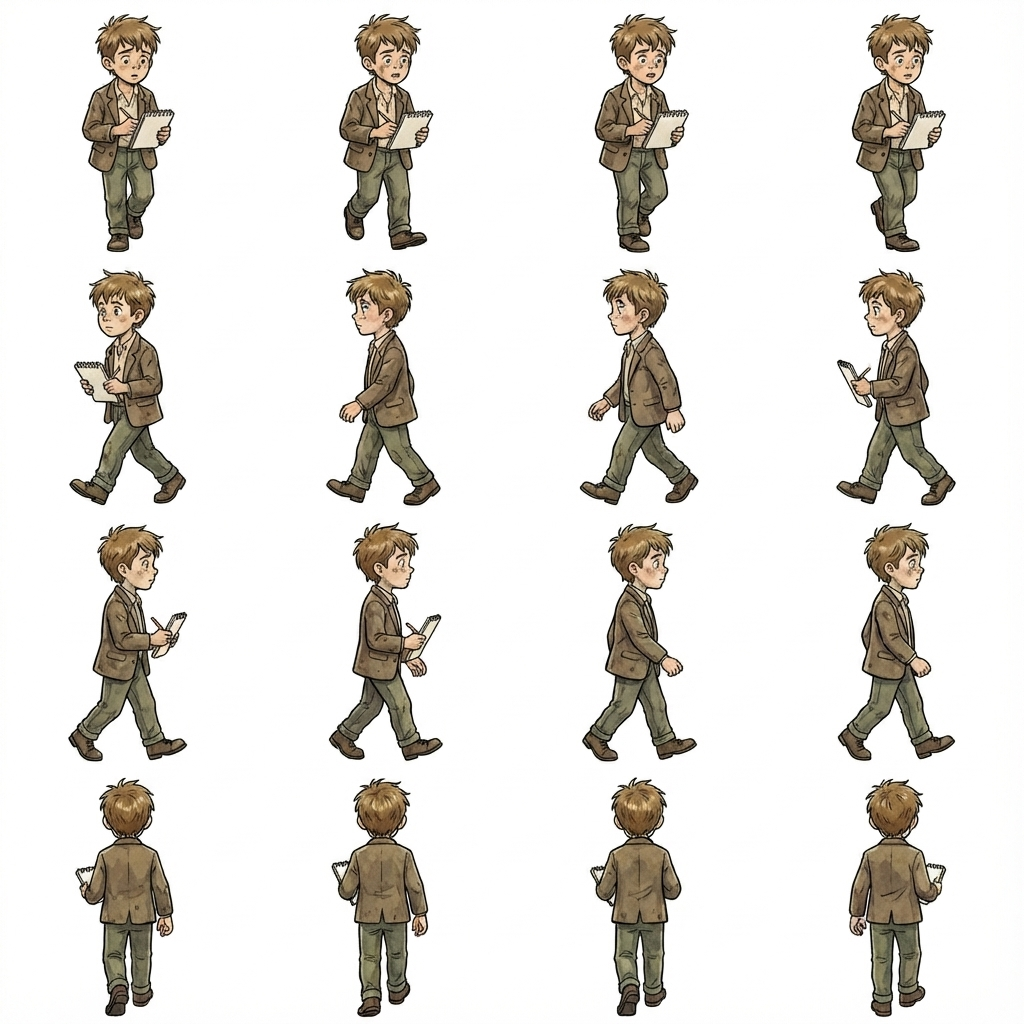
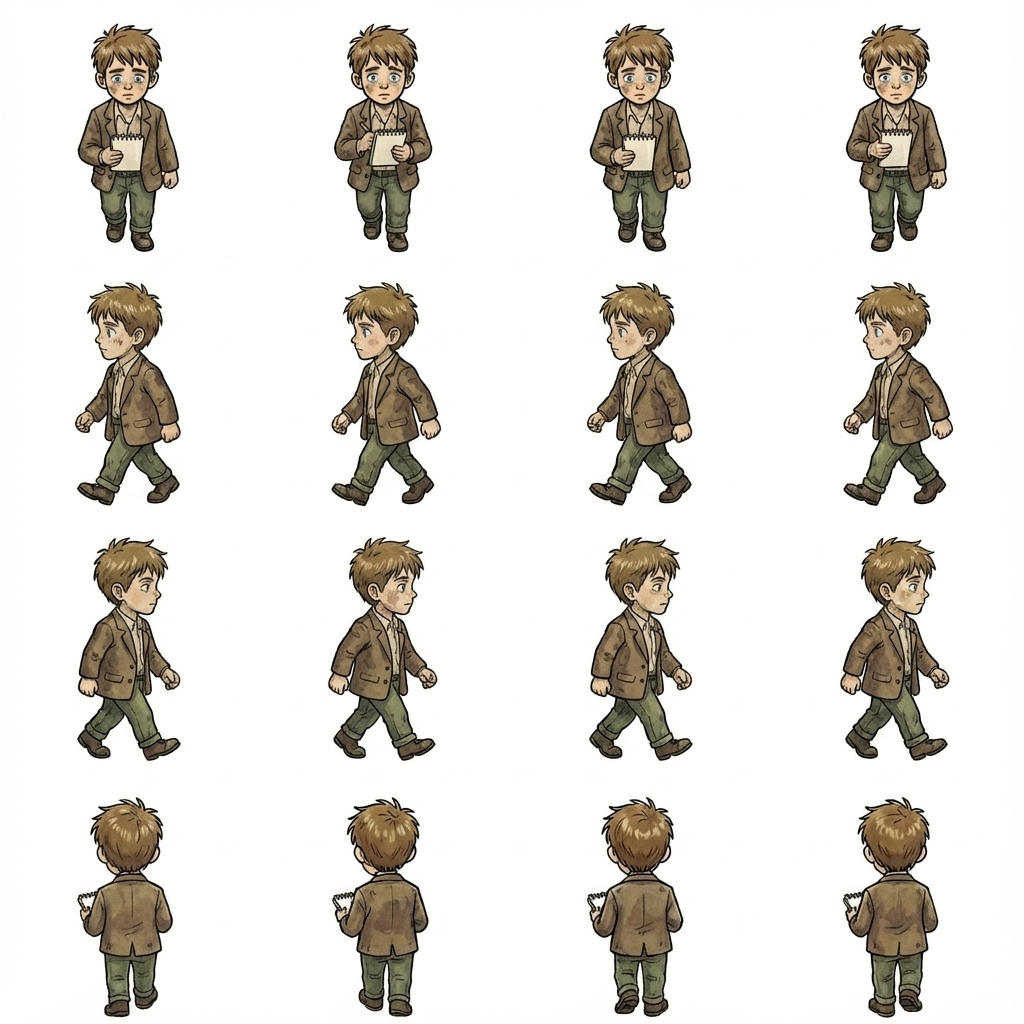
feat: update character spritesheets and enhance generation logic for consistency

diff --git a/tools/asset-designer/src/routes/actors/[actorId]/generate.remote.ts b/tools/asset-designer/src/routes/actors/[actorId]/generate.remote.ts
@@ -11,7 +11,12 @@ import {
 	hasActorSpeech,
 	hasActorFrame
 } from '$lib/server/filesystem';
-import { generateImage, buildConceptPrompt, buildPortraitPrompt, buildSpritesheetPrompt } from '$lib/server/gemini';
+import {
+	generateImage,
+	buildConceptPrompt,
+	buildPortraitPrompt,
+	buildSpritesheetPrompt
+} from '$lib/server/gemini';
 import fs from 'fs/promises';
 import path from 'path';
 
@@ -47,88 +52,112 @@ export const generateConcept = command(z.string(), async (actorId) => {
 /**
  * Generate portrait for an actor (3:4 aspect ratio)
  */
-export const generatePortrait = command(z.tuple([z.string(), z.string()]), async ([actorId, expressionType]) => {
-	const actor = await getActor(actorId);
-	if (!actor) {
-		throw new Error('Actor not found');
+export const generatePortrait = command(
+	z.tuple([z.string(), z.string()]),
+	async ([actorId, expressionType]) => {
+		const actor = await getActor(actorId);
+		if (!actor) {
+			throw new Error('Actor not found');
+		}
+
+		const systemPrompt = await getSystemPrompt();
+		const extraInstructions =
+			expressionType === 'talking' ? await getPrompt('talking-portrait.prompt.md') : undefined;
+		const prompt = buildPortraitPrompt(systemPrompt, actor.content, extraInstructions ?? undefined);
+
+		const referenceImages: Buffer[] = [];
+		const conceptArtImages = await getConceptArtImages();
+		referenceImages.push(...conceptArtImages);
+		console.log(`Generating ${expressionType} portrait for actor: ${actorId}`);
+
+		// Add actor's concept if it exists
+		try {
+			const ASSETS_DIR = path.resolve(process.cwd(), '../../assets');
+			const conceptPath = path.join(ASSETS_DIR, 'actors', actorId, 'concept.png');
+			const conceptImage = await fs.readFile(conceptPath);
+			referenceImages.push(conceptImage);
+		} catch {
+			// Continue without actor concept
+		}
+
+		const result = await generateImage({
+			prompt,
+			referenceImages: referenceImages.length > 0 ? referenceImages : undefined,
+			aspectRatio: '3:4'
+		});
+
+		if (!result) {
+			throw new Error('Failed to generate portrait');
+		}
+
+		await saveActorSpeech(actorId, expressionType, result.data);
+		console.log(`Done generating ${expressionType} portrait for actor: ${actorId}`);
+		return { success: true };
 	}
-
-	const systemPrompt = await getSystemPrompt();
-	const extraInstructions = expressionType === 'talking' ? await getPrompt('talking-portrait.prompt.md') : undefined;
-	const prompt = buildPortraitPrompt(systemPrompt, actor.content, extraInstructions ?? undefined);
-
-	const referenceImages: Buffer[] = [];
-	const conceptArtImages = await getConceptArtImages();
-	referenceImages.push(...conceptArtImages);
-	console.log(`Generating ${expressionType} portrait for actor: ${actorId}`);
-
-	// Add actor's concept if it exists
-	try {
-		const ASSETS_DIR = path.resolve(process.cwd(), '../../assets');
-		const conceptPath = path.join(ASSETS_DIR, 'actors', actorId, 'concept.png');
-		const conceptImage = await fs.readFile(conceptPath);
-		referenceImages.push(conceptImage);
-	} catch {
-		// Continue without actor concept
-	}
-
-	const result = await generateImage({
-		prompt,
-		referenceImages: referenceImages.length > 0 ? referenceImages : undefined,
-		aspectRatio: '3:4'
-	});
-
-	if (!result) {
-		throw new Error('Failed to generate portrait');
-	}
-
-	await saveActorSpeech(actorId, expressionType, result.data);
-	console.log(`Done generating ${expressionType} portrait for actor: ${actorId}`);
-	return { success: true };
-});
+);
 
 /**
  * Generate spritesheet for an actor (1:1 aspect ratio)
  */
-export const generateSpritesheet = command(z.tuple([z.string(), z.string()]), async ([actorId, animationType]) => {
-	const actor = await getActor(actorId);
-	if (!actor) {
-		throw new Error('Actor not found');
+export const generateSpritesheet = command(
+	z.tuple([z.string(), z.string()]),
+	async ([actorId, animationType]) => {
+		const actor = await getActor(actorId);
+		if (!actor) {
+			throw new Error('Actor not found');
+		}
+
+		const systemPrompt = await getSystemPrompt();
+		const extraInstructions = await getPrompt(`${animationType}-spritesheet.prompt.md`);
+		const prompt = buildSpritesheetPrompt(
+			systemPrompt,
+			actor.content,
+			extraInstructions ?? undefined
+		);
+
+		const referenceImages: Buffer[] = [];
+		const conceptArtImages = await getConceptArtImages();
+		referenceImages.push(...conceptArtImages);
+		console.log(`Generating ${animationType} spritesheet for actor: ${actorId}`);
+
+		// Add actor's concept if it exists
+		try {
+			const ASSETS_DIR = path.resolve(process.cwd(), '../../assets');
+			const conceptPath = path.join(ASSETS_DIR, 'actors', actorId, 'concept.png');
+			const conceptImage = await fs.readFile(conceptPath);
+			referenceImages.push(conceptImage);
+		} catch {
+			// Continue without actor concept
+		}
+
+		// Add idle spritesheet as reference for other animations
+		if (animationType !== 'idle') {
+			try {
+				const ASSETS_DIR = path.resolve(process.cwd(), '../../assets');
+				const idlePath = path.join(ASSETS_DIR, 'actors', actorId, 'frames', 'idle.png');
+				const idleImage = await fs.readFile(idlePath);
+				referenceImages.push(idleImage);
+				console.log(`Added idle spritesheet as reference for ${animationType}`);
+			} catch {
+				console.warn(`Idle spritesheet not found for ${actorId}, continuing without it`);
+			}
+		}
+
+		const result = await generateImage({
+			prompt,
+			referenceImages: referenceImages.length > 0 ? referenceImages : undefined,
+			aspectRatio: '1:1'
+		});
+
+		if (!result) {
+			throw new Error('Failed to generate spritesheet');
+		}
+
+		await saveActorFrame(actorId, animationType, result.data);
+		console.log(`Done generating ${animationType} spritesheet for actor: ${actorId}`);
+		return { success: true };
 	}
-
-	const systemPrompt = await getSystemPrompt();
-	const extraInstructions = await getPrompt(`${animationType}-spritesheet.prompt.md`);
-	const prompt = buildSpritesheetPrompt(systemPrompt, actor.content, extraInstructions ?? undefined);
-
-	const referenceImages: Buffer[] = [];
-	const conceptArtImages = await getConceptArtImages();
-	referenceImages.push(...conceptArtImages);
-	console.log(`Generating ${animationType} spritesheet for actor: ${actorId}`);
-
-	// Add actor's concept if it exists
-	try {
-		const ASSETS_DIR = path.resolve(process.cwd(), '../../assets');
-		const conceptPath = path.join(ASSETS_DIR, 'actors', actorId, 'concept.png');
-		const conceptImage = await fs.readFile(conceptPath);
-		referenceImages.push(conceptImage);
-	} catch {
-		// Continue without actor concept
-	}
-
-	const result = await generateImage({
-		prompt,
-		referenceImages: referenceImages.length > 0 ? referenceImages : undefined,
-		aspectRatio: '1:1'
-	});
-
-	if (!result) {
-		throw new Error('Failed to generate spritesheet');
-	}
-
-	await saveActorFrame(actorId, animationType, result.data);
-	console.log(`Done generating ${animationType} spritesheet for actor: ${actorId}`);
-	return { success: true };
-});
+);
 
 /**
  * Generate all missing portraits for an actor
@@ -153,8 +182,13 @@ export const generateMissingPortraits = command(
 				if (!actor) throw new Error('Actor not found');
 
 				const systemPrompt = await getSystemPrompt();
-				const extraInstructions = type === 'talking' ? await getPrompt('talking-portrait.prompt.md') : undefined;
-				const prompt = buildPortraitPrompt(systemPrompt, actor.content, extraInstructions ?? undefined);
+				const extraInstructions =
+					type === 'talking' ? await getPrompt('talking-portrait.prompt.md') : undefined;
+				const prompt = buildPortraitPrompt(
+					systemPrompt,
+					actor.content,
+					extraInstructions ?? undefined
+				);
 
 				const referenceImages: Buffer[] = [];
 				const conceptArtImages = await getConceptArtImages();
@@ -166,7 +200,9 @@ export const generateMissingPortraits = command(
 					const conceptPath = path.join(ASSETS_DIR, 'actors', actorId, 'concept.png');
 					const conceptImage = await fs.readFile(conceptPath);
 					referenceImages.push(conceptImage);
-				} catch { /* Continue */ }
+				} catch {
+					/* Continue */
+				}
 
 				const result = await generateImage({
 					prompt,
@@ -210,7 +246,11 @@ export const generateMissingSpritesheets = command(
 
 				const systemPrompt = await getSystemPrompt();
 				const extraInstructions = await getPrompt(`${type}-spritesheet.prompt.md`);
-				const prompt = buildSpritesheetPrompt(systemPrompt, actor.content, extraInstructions ?? undefined);
+				const prompt = buildSpritesheetPrompt(
+					systemPrompt,
+					actor.content,
+					extraInstructions ?? undefined
+				);
 
 				const referenceImages: Buffer[] = [];
 				const conceptArtImages = await getConceptArtImages();
@@ -222,7 +262,22 @@ export const generateMissingSpritesheets = command(
 					const conceptPath = path.join(ASSETS_DIR, 'actors', actorId, 'concept.png');
 					const conceptImage = await fs.readFile(conceptPath);
 					referenceImages.push(conceptImage);
-				} catch { /* Continue */ }
+				} catch {
+					/* Continue */
+				}
+
+				// Add idle spritesheet as reference for other animations
+				if (type !== 'idle') {
+					try {
+						const ASSETS_DIR = path.resolve(process.cwd(), '../../assets');
+						const idlePath = path.join(ASSETS_DIR, 'actors', actorId, 'frames', 'idle.png');
+						const idleImage = await fs.readFile(idlePath);
+						referenceImages.push(idleImage);
+						console.log(`Added idle spritesheet as reference for ${type}`);
+					} catch {
+						console.warn(`Idle spritesheet not found for ${actorId}, continuing without it`);
+					}
+				}
 
 				const result = await generateImage({
 					prompt,

diff --git a/tools/asset-designer/src/routes/actors/[actorId]/+page.svelte b/tools/asset-designer/src/routes/actors/[actorId]/+page.svelte
@@ -35,6 +35,9 @@
 		data.animationTypes.filter((type) => !data.animations[type]?.exists).length
 	);
 
+	// Check if idle spritesheet exists
+	let hasIdleSpritesheet = $derived(data.animations['idle']?.exists || false);
+
 	async function handleGenerateConcept() {
 		generating = true;
 		status = { type: 'info', message: 'Generating concept...' };
@@ -128,7 +131,9 @@
 		};
 
 		try {
-			const result = await generateMissingSpritesheets([data.actor.id, data.animationTypes]);
+			// Filter animation types to ensure idle is generated first
+			const orderedTypes = ['idle', ...data.animationTypes.filter((t) => t !== 'idle')];
+			const result = await generateMissingSpritesheets([data.actor.id, orderedTypes]);
 			const successCount = result.results.filter((r) => r.success).length;
 			const failCount = result.results.filter((r) => !r.success).length;
 
@@ -303,16 +308,21 @@
 							<div>
 								<h3 class="text-lg font-bold capitalize">{animationType} Animation</h3>
 								<p class="text-sm text-base-content/60">Full 4x4 spritesheet for all directions</p>
+								{#if animationType !== 'idle' && !hasIdleSpritesheet}
+									<div class="badge badge-warning badge-sm mt-2">Requires idle spritesheet</div>
+								{/if}
 							</div>
 							<button
 								class="btn btn-circle btn-sm btn-primary"
 								onclick={() => handleGenerateFrame(animationType)}
-								disabled={generatingFrame[animationType] || !conceptUrl}
+								disabled={generatingFrame[animationType] || !conceptUrl || (animationType !== 'idle' && !hasIdleSpritesheet)}
 								title={generatingFrame[animationType]
 									? 'Generating...'
-									: frames[animationType]
-										? 'Regenerate Spritesheet'
-										: 'Generate Spritesheet'}
+									: animationType !== 'idle' && !hasIdleSpritesheet
+										? 'Generate idle spritesheet first'
+										: frames[animationType]
+											? 'Regenerate Spritesheet'
+											: 'Generate Spritesheet'}
 							>
 								{#if generatingFrame[animationType]}
 									<span class="loading loading-spinner loading-xs"></span>

diff --git a/docs/spec/prompts/system.prompt.md b/docs/spec/prompts/system.prompt.md
@@ -117,6 +117,20 @@ If the user requests individual character spritesheets, follow these guidelines:
 - Consistent stylized design so that every sprite looks like it belongs to the same character and game
 - Limited but harmonious color palette with strong contrast between character and white background
 
+### Spritesheet Consistency (CRITICAL)
+
+**When an idle spritesheet reference is provided, treat the generation as an EDIT operation, not creating from scratch:**
+
+- The idle spritesheet serves as the DEFINITIVE reference for the character's appearance, proportions, style, and color palette
+- Preserve EXACT character design from the idle spritesheet: same face shape, eye style, hair design, clothing details, body proportions, and color values
+- Match the exact art style, line weight, shading approach, and level of detail from the idle reference
+- Only animate the character's pose and movement - DO NOT alter any visual characteristics
+- The character in every animation must look identical to the idle version, just in different poses
+- Think of this as keyframing: the idle spritesheet shows what the character looks like, and you're just adding motion
+- Maintain consistent sprite dimensions and positioning across all animations so they can be swapped seamlessly in-game
+
+**Without an idle reference, establish a new baseline that will be used for future animations**
+
 ### Format Rules
 
 **CRITICAL: Generate a 4x4 grid spritesheet with 4 animations, one per row**

diff --git a/docs/spec/prompts/walk-spritesheet.prompt.md b/docs/spec/prompts/walk-spritesheet.prompt.md
@@ -6,4 +6,4 @@ Generate a spritesheet for the character's walking animation.
 
 - **Action**: Walking.
 - **Animation Details**: Show the full stepping motion using both feet across the 4 frames.
-- **Reference**: Follow all "Spritesheets" guidelines from the system prompt.
+- **Reference**: Follow all "Spritesheets" guidelines from the system prompt. Use the idle spritesheet as a reference to maintain consistent character style, proportions, and visual appearance across animations.
